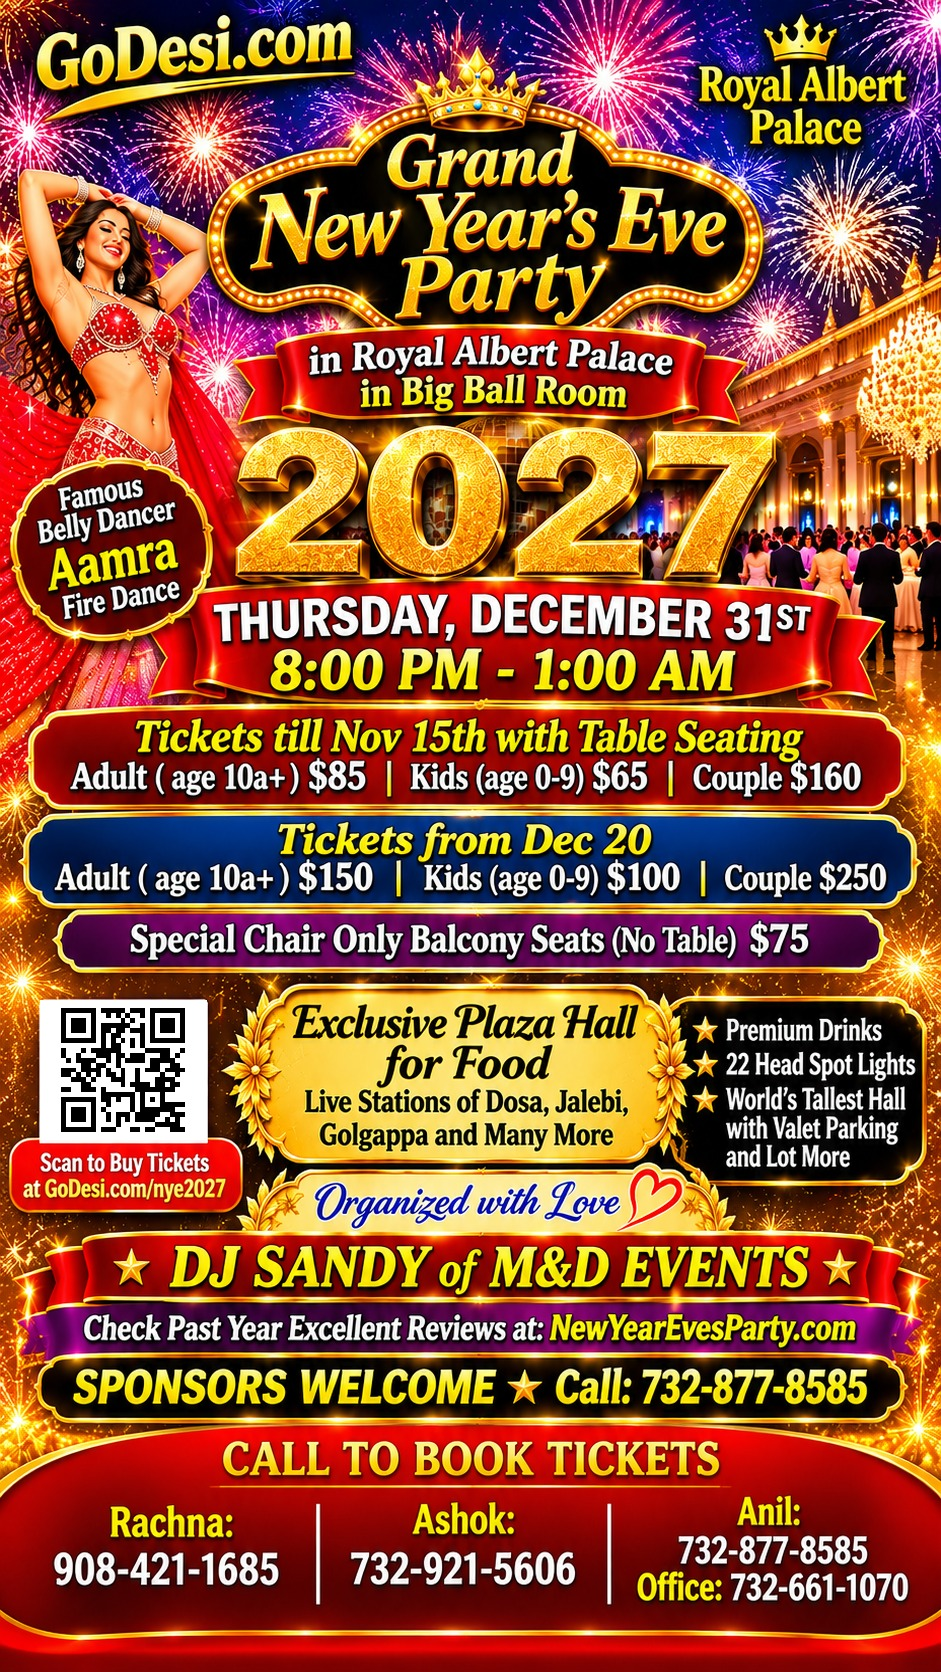
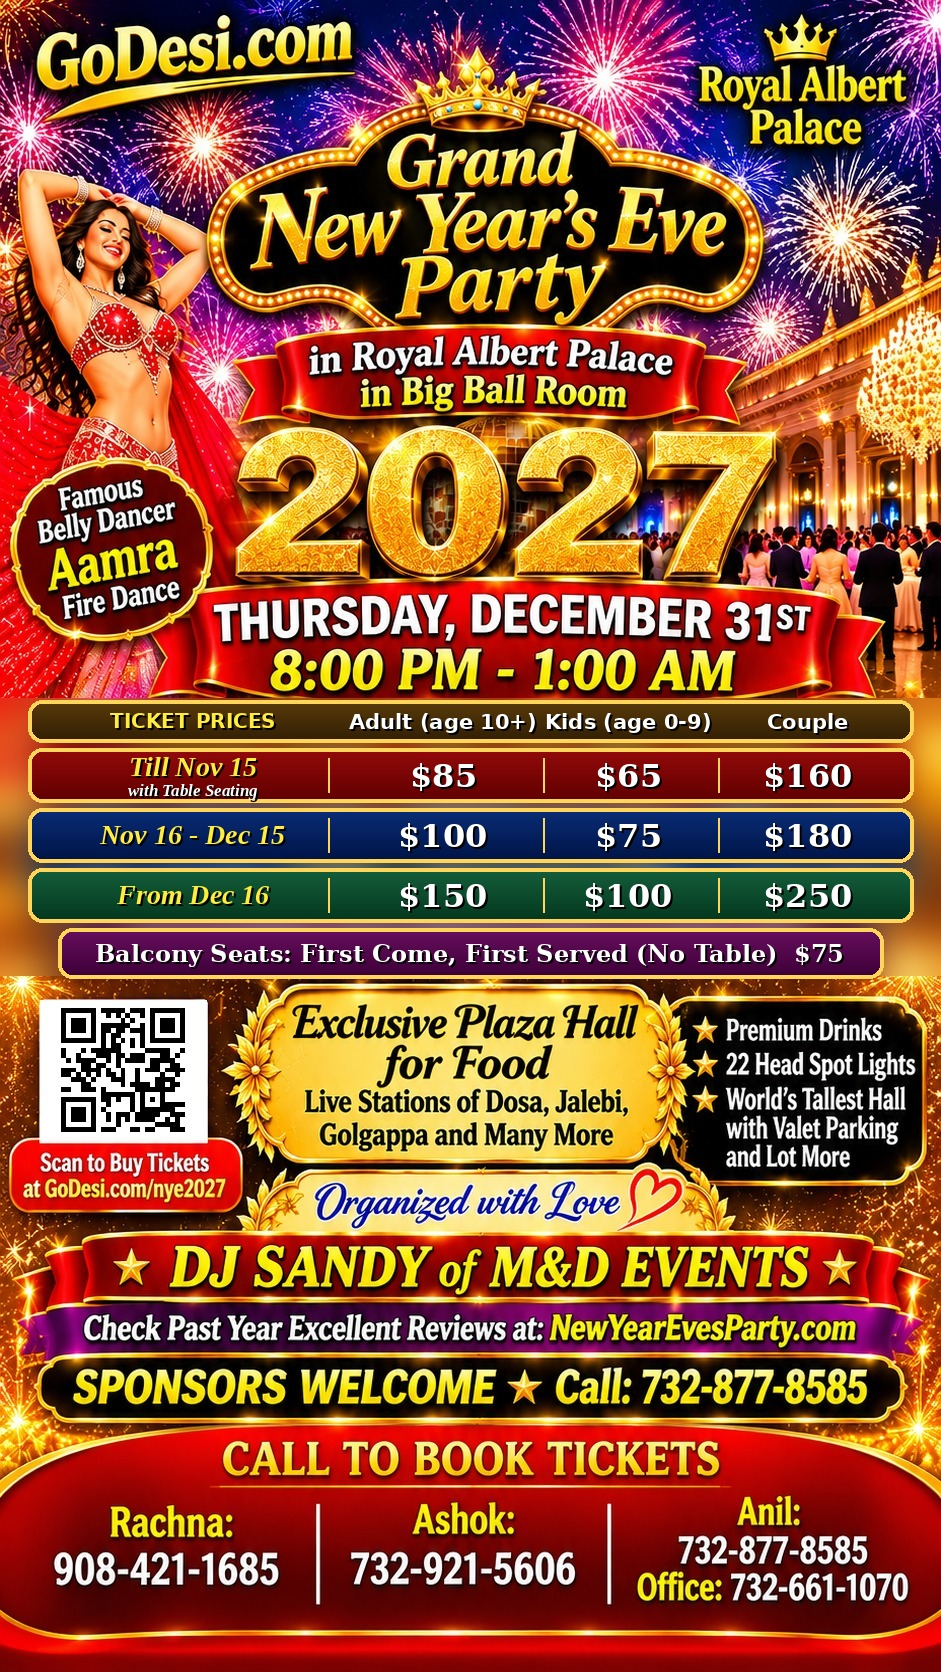
NYE 2027: Singles (no Mingle) with dated prices and godesi.com/927, advance tier for the main event, pooled seat caps, move both events to NewYearEvesParty.com and post news

Changed region(s): [[0.0, 0.4043, 1.0, 0.5909]]

diff --git a/scripts/create-nye-2027-singles.ts b/scripts/create-nye-2027-singles.ts
@@ -1,9 +1,11 @@
 /**
- * Creates (or refreshes) the "Singles Mingle" listing for NYE 2027: the same night and
- * hall as the main party, but its own page and its own 50 chair-only balcony seats, sold
- * only to members 21+ with a Connect profile marked Single (see lib/singles). The main event
- * keeps its separate 50 balcony seats, so the balcony holds 100 in total.
- * Safe to re-run: the event is matched by slug and its single tier by name.
+ * Creates (or refreshes) the "Singles" listing for NYE 2027: the same night and hall as
+ * the main party, but its own page and its own 50 first-come-first-served balcony seats
+ * (no tables), sold only to members 21+ with a Connect profile marked Single (see
+ * lib/singles). The price rises by date; the event's seatsTotal of 50 caps the three
+ * price windows together (lib/events pooledSeatsLeft). The main event keeps its separate
+ * 50 balcony seats, so the balcony holds 100 in total.
+ * Safe to re-run: the event is matched by slug (old slugs are renamed) and tiers by name.
  *
  *   DATABASE_URL=... npx tsx scripts/create-nye-2027-singles.ts
  */
@@ -11,22 +13,34 @@ import { db } from "@/lib/db";
 import { SINGLES_ONLY_TAG } from "@/lib/singles";
 
 const MAIN_SLUG = "new-year-eves-party-2027-edison";
-const SLUG = "singles-mingle-new-years-eve-party-2027-nj";
-const FLYER = "https://godesi.com/flyers/nye-2027-singles-mingle.jpg";
-const TIER = { name: "Singles balcony seat", note: "21+ · Chair only, no table · singles band included", price: 75, seats: 50 };
+const SLUG = "singles-new-years-eve-party-2027-nj";
+const OLD_SLUGS = ["singles-mingle-new-years-eve-party-2027-nj"];
+const FLYER = "https://godesi.com/flyers/nye-2027-singles.jpg";
+const SEATS = 50;
+const NOTE = "21+ · First come, first served · no table · singles band included";
 
-const TITLE = "Singles Mingle New Year's Eve Party 2027 in NJ (21+)";
+/** Windows are in New York time; salesEnd is exclusive. */
+const NOV_16 = new Date("2026-11-16T00:00:00-05:00");
+const DEC_16 = new Date("2026-12-16T00:00:00-05:00");
+
+const TIERS: { name: string; match?: string[]; price: number; salesStart?: Date; salesEnd?: Date }[] = [
+  { name: "Singles balcony seat — Early bird", match: ["Singles balcony seat"], price: 75, salesEnd: NOV_16 },
+  { name: "Singles balcony seat — Advance", price: 85, salesStart: NOV_16, salesEnd: DEC_16 },
+  { name: "Singles balcony seat", price: 100, salesStart: DEC_16 },
+];
+
+const TITLE = "Singles New Year's Eve Party 2027 in NJ (21+)";
 
 const DESCRIPTION = [
-  "Single? Don't spend New Year's Eve alone! GoDesi Singles Mingle is a singles-only New Year's Eve party inside the Grand New Year's Eve Party 2027 at Royal Albert Palace, Fords NJ (near Edison) — Thursday, December 31st, 8:00 PM to 1:00 AM.",
-  "Singles get their own chair-only balcony in the Big Ball Room: no tables, more of a club feel, so it's easy to move around, meet new people and make friends. Every singles guest gets a special singles band, so you know who else is there to mingle.",
-  "You get everything the main party has: delicious food from live stations (dosa, jalebi, golgappa and more), premium drinks and liquor, DJ Sandy on the dance floor and belly dancer Aamra's fire dance. The only thing you don't get is a table.",
+  "Single? Don't spend New Year's Eve alone! GoDesi Singles is a singles-only New Year's Eve party inside the Grand New Year's Eve Party 2027 at Royal Albert Palace, Fords NJ (near Edison) — Thursday, December 31st, 8:00 PM to 1:00 AM.",
+  "Singles get their own balcony in the Big Ball Room: seats only, no tables and no assigned seats — first come, first served. Every singles guest gets a special singles band.",
+  "You get everything the main party has: delicious food from live stations (dosa, jalebi, golgappa and more), premium drinks and liquor, DJ Sandy on the dance floor and belly dancer Aamra's fire dance. Meet new people, make friends and welcome 2027 together.",
   "This is a 21+ party because liquor is served: bring a photo ID, which is checked at the door when you pick up your singles band.",
-  "Tickets are $75 and only 50 singles seats are available. To keep it singles-only, you need a free GoDesi Connect profile marked Single, with your age (21 or older), before you buy — create it in a minute and come straight back to book.",
+  "Tickets: $75 till Nov 15 · $85 from Nov 16 to Dec 15 · $100 from Dec 16. Only 50 singles seats. To keep it singles-only, you need a free GoDesi Connect profile marked Single, with your age (21 or older), before you buy — create it in a minute and come straight back to book. Short link: godesi.com/927",
   "Questions or group bookings: Rachna 908-421-1685 · Anil 732-877-8585 · Ashok 732-921-5606 · Office 732-661-1070.",
 ].join("\n\n");
 
-const TAGS = [SINGLES_ONLY_TAG, "singles", "singles-party", "singles-mingle", "desi-singles", "21-plus", "new-years-eve", "nye-2027", "new-jersey"];
+const TAGS = [SINGLES_ONLY_TAG, "singles", "singles-party", "singles-new-years-eve", "desi-singles", "21-plus", "new-years-eve", "nye-2027", "new-jersey"];
 
 async function main() {
   const main = await db.event.findUnique({ where: { slug: MAIN_SLUG } });
@@ -64,28 +78,44 @@ async function main() {
     tags: TAGS,
     featured: true,
     status: "APPROVED" as const,
-    price: TIER.price,
+    slug: SLUG,
+    price: Math.min(...TIERS.map((tier) => tier.price)),
   };
 
-  const existing = await db.event.findUnique({ where: { slug: SLUG }, include: { tiers: true } });
+  const existing = await db.event.findFirst({
+    where: { slug: { in: [SLUG, ...OLD_SLUGS] } },
+    include: { tiers: true },
+  });
   const event = existing
     ? await db.event.update({ where: { id: existing.id }, data })
-    : await db.event.create({ data: { ...data, slug: SLUG, seatsTotal: TIER.seats } });
+    : await db.event.create({ data: { ...data, seatsTotal: SEATS } });
 
-  const tier = existing?.tiers.find((row) => row.name === TIER.name);
-  const tierData = {
-    name: TIER.name,
-    note: TIER.note,
-    price: TIER.price,
-    seatsTotal: Math.max(TIER.seats, tier?.seatsBooked ?? 0),
-    sortOrder: 0,
-    kind: "TICKET",
-    admits: 1,
-  };
-  if (tier) await db.ticketTier.update({ where: { id: tier.id }, data: tierData });
-  else await db.ticketTier.create({ data: { ...tierData, eventId: event.id } });
+  const used = new Set<string>();
+  for (let index = 0; index < TIERS.length; index += 1) {
+    const spec = TIERS[index];
+    const names = [spec.name, ...(spec.match ?? [])];
+    const tier = existing?.tiers.find((row) => !used.has(row.id) && names.includes(row.name));
+    const tierData = {
+      name: spec.name,
+      note: NOTE,
+      price: spec.price,
+      seatsTotal: Math.max(SEATS, tier?.seatsBooked ?? 0),
+      sortOrder: index,
+      salesStart: spec.salesStart ?? null,
+      salesEnd: spec.salesEnd ?? null,
+      kind: "TICKET",
+      admits: 1,
+    };
+    if (tier) {
+      used.add(tier.id);
+      await db.ticketTier.update({ where: { id: tier.id }, data: tierData });
+    } else await db.ticketTier.create({ data: { ...tierData, eventId: event.id } });
+  }
 
-  await db.event.update({ where: { id: event.id }, data: { seatsTotal: tierData.seatsTotal } });
+  /** One pool of 50 across the three price windows (below the tiers' 150, see pooledSeatsLeft). */
+  const booked = await db.ticketTier.aggregate({ where: { eventId: event.id, kind: "TICKET" }, _sum: { seatsBooked: true } });
+  const seatsBooked = booked._sum.seatsBooked ?? 0;
+  await db.event.update({ where: { id: event.id }, data: { seatsTotal: Math.max(SEATS, seatsBooked), seatsBooked } });
   console.log(`${existing ? "Updated" : "Created"} ${SLUG} (${event.id})`);
 }
 

diff --git a/scripts/update-nye-2027-edison.ts b/scripts/update-nye-2027-edison.ts
@@ -1,7 +1,7 @@
 /**
  * Brings the NYE 2027 Edison listing in line with the organiser's flyer: 8 PM start,
- * flyer image, early (till Nov 15) / late (from Dec 20) ticket prices plus balcony
- * seats, and guest reviews typed out from the WhatsApp review album (first names only).
+ * flyer image, early (till Nov 15) / advance (Nov 16–Dec 15) / late (from Dec 16) ticket
+ * prices plus first-come-first-served balcony seats, and guest reviews typed out from the WhatsApp review album (first names only).
  * Safe to re-run: tiers are matched by name, reviews are replaced.
  *
  *   DATABASE_URL=... npx tsx scripts/update-nye-2027-edison.ts
@@ -14,19 +14,20 @@ const REVIEWS_ALBUM = "https://photos.app.goo.gl/nQrusW5e5pojmj7P7";
 
 /** Windows are in New York time; salesEnd is exclusive, so early tickets sell through Nov 15. */
 const EARLY_END = new Date("2026-11-16T00:00:00-05:00");
-const LATE_START = new Date("2026-12-20T00:00:00-05:00");
+const LATE_START = new Date("2026-12-16T00:00:00-05:00");
 
 const DESCRIPTION = [
   "Grand New Year's Eve Party 2027 in the Big Ball Room at Royal Albert Palace — Thursday, December 31st, 8:00 PM to 1:00 AM. Hosted by NewYearEvesParty.com, celebrating since 2018.",
   "DJ Sandy of M&D Events keeps the dance floor packed all night, and famous belly dancer Aamra performs her fire dance. The Big Ball Room is lit by 22 head spot lights.",
   "Food is served in the exclusive Plaza Hall with live stations — dosa, jalebi, golgappa and many more — plus premium drinks. Valet parking and a lot more.",
-  "Early tickets (till Nov 15th) include table seating: Adult (10+) $85, Kids (0–9) $65, Couple $160. From Dec 20th: Adult $150, Kids $100, Couple $250. Special chair-only balcony seats (no table) $75.",
+  "Tickets till Nov 15th include table seating: Adult (10+) $85, Kids (0–9) $65, Couple $160. Nov 16th to Dec 15th: Adult $100, Kids $75, Couple $180. From Dec 16th: Adult $150, Kids $100, Couple $250. Balcony seats (no table, first come, first served) $75.",
   "Sponsors welcome — call 732-877-8585.",
 ].join("\n\n");
 
 /**
  * The hall holds 400 people, so entry tiers add up to 400, counting a couple as 2:
- * early 120 + 50 + 40×2 = 250, balcony 50, late 60 + 20 + 10×2 = 100.
+ * early 120 + 50 + 40×2 = 250, balcony 50, late 60 + 20 + 10×2 = 100. The advance window
+ * (Nov 16–Dec 15) repeats the early numbers, since it sells after the early tiers close.
  * `match` lists the old names so the existing late tiers (and their bookings) are kept.
  * Sponsor packages are listed separately; the 2-pass ones add up to 18 more people.
  */
@@ -46,11 +47,21 @@ type TierSpec = {
 
 const BANNER_YEAR = "320×100 banner on GoDesi.com for 1 year";
 
+/**
+ * Tickets the hall can sell across every window. Early and advance tiers sell the same
+ * seats at different dates, so the tiers add up to more than this; the event total
+ * caps them together (lib/events pooledSeatsLeft).
+ */
+const HALL_TICKETS = 350;
+
 const TIERS: TierSpec[] = [
   { name: "Adult (10+) — Early bird", note: "Table seating included", price: 85, seats: 120, salesEnd: EARLY_END },
   { name: "Kids (0–9) — Early bird", note: "Table seating included", price: 65, seats: 50, salesEnd: EARLY_END },
   { name: "Couple — Early bird", note: "Table seating included", price: 160, seats: 40, salesEnd: EARLY_END, admits: 2 },
-  { name: "Special balcony seat", note: "Chair only, no table", price: 75, seats: 50 },
+  { name: "Adult (10+) — Advance", price: 100, seats: 120, salesStart: EARLY_END, salesEnd: LATE_START },
+  { name: "Kids (0–9) — Advance", price: 75, seats: 50, salesStart: EARLY_END, salesEnd: LATE_START },
+  { name: "Couple — Advance", price: 180, seats: 40, salesStart: EARLY_END, salesEnd: LATE_START, admits: 2 },
+  { name: "Balcony seat — first come, first served", match: ["Special balcony seat"], note: "Seat only, no table · first come, first served", price: 75, seats: 50 },
   { name: "Adult (10+)", match: ["General"], price: 150, seats: 60, salesStart: LATE_START },
   { name: "Kids (0–9)", match: ["Teen"], price: 100, seats: 20, salesStart: LATE_START },
   { name: "Couple", match: ["Couple"], price: 250, seats: 10, salesStart: LATE_START, admits: 2 },
@@ -89,10 +100,12 @@ async function main() {
   const event = await db.event.findUnique({ where: { slug: SLUG }, include: { tiers: true } });
   if (!event) throw new Error(`No event ${SLUG}`);
 
+  const used = new Set<string>();
   for (let index = 0; index < TIERS.length; index += 1) {
     const spec = TIERS[index];
     const names = [spec.name, ...(spec.match ?? [])];
-    const existing = event.tiers.find((tier) => names.includes(tier.name));
+    const existing = event.tiers.find((tier) => !used.has(tier.id) && names.includes(tier.name));
+    if (existing) used.add(existing.id);
     const data = {
       name: spec.name,
       note: spec.note ?? null,
@@ -121,7 +134,7 @@ async function main() {
       description: DESCRIPTION,
       reviewsAlbumUrl: REVIEWS_ALBUM,
       price: Math.min(...tiers.map((tier) => tier.price)),
-      seatsTotal: tiers.reduce((sum, tier) => sum + tier.seatsTotal, 0),
+      seatsTotal: Math.max(HALL_TICKETS, tiers.reduce((sum, tier) => sum + tier.seatsBooked, 0)),
     },
   });
 

diff --git a/scripts/nye-2027-to-newyearevesparty.ts b/scripts/nye-2027-to-newyearevesparty.ts
@@ -1,0 +1,72 @@
+/**
+ * Moves the NYE 2027 main and Singles events under the NewYearEvesParty.com member
+ * (user + business profile) and posts their announcement on GoDesi News from that member.
+ * Safe to re-run: the news item is keyed by a fixed guid.
+ *
+ *   DATABASE_URL=... npx tsx scripts/nye-2027-to-newyearevesparty.ts
+ */
+import { db } from "@/lib/db";
+import { newsPath } from "@/lib/newsLinks";
+
+const MEMBER_EMAIL = "newyearevespartycom@gmail.com";
+const EVENT_SLUGS = ["new-year-eves-party-2027-edison", "singles-new-years-eve-party-2027-nj"];
+const GUID = "report:newyearevesparty-nye-2027";
+const MAIN_FLYER = "https://godesi.com/flyers/nye-2027-royal-albert-palace.jpg";
+const SINGLES_FLYER = "https://godesi.com/flyers/nye-2027-singles.jpg";
+
+const TITLE = "Grand New Year's Eve Party 2027 at Royal Albert Palace, Fords NJ — tickets on sale";
+
+const SUMMARY = [
+  "NewYearEvesParty.com is hosting the Grand New Year's Eve Party 2027 on Thursday, December 31st, 8:00 PM to 1:00 AM, in the Big Ball Room at Royal Albert Palace, 1050 King Georges Post Rd, Fords NJ 08863 (near Edison).",
+  "It's a family party with live food stations (dosa, jalebi, golgappa and more), premium drinks, DJ Sandy on the dance floor and belly dancer Aamra's fire dance.",
+  "Tickets till Nov 15 (with table seating): Adult (10+) $85, Kids (0–9) $65, Couple $160. Nov 16 to Dec 15: Adult $100, Kids $75, Couple $180. From Dec 16: Adult $150, Kids $100, Couple $250. Balcony seats (no table, first come, first served) are $75. Book at godesi.com/nye2027.",
+  "Singles 21+ get their own first-come-first-served balcony (seats only, no table) with food, drinks and dancing included: $75 till Nov 15, $85 from Nov 16 to Dec 15 and $100 from Dec 16. Photo ID is checked at the door. Book at godesi.com/927.",
+  "To book by phone: Rachna 908-421-1685 · Anil 732-877-8585 · Ashok 732-921-5606 · Office 732-661-1070.",
+].join("\n\n");
+
+async function main() {
+  const user = await db.user.findUniqueOrThrow({ where: { email: MEMBER_EMAIL } });
+  const business = await db.business.findFirstOrThrow({
+    where: { ownerId: user.id },
+    orderBy: { createdAt: "asc" },
+  });
+
+  const moved = await db.event.updateMany({
+    where: { slug: { in: EVENT_SLUGS } },
+    data: { organizerId: user.id, businessId: business.id },
+  });
+  console.log(`Moved ${moved.count} events to ${business.name} (${business.slug})`);
+
+  const data = {
+    title: TITLE,
+    summary: SUMMARY,
+    source: business.name,
+    submittedById: user.id,
+    status: "PUBLISHED" as const,
+    topic: "events",
+    category: "Events & festivals",
+    city: "Fords",
+    state: "NJ",
+    country: "US",
+    sourceType: "Self",
+    sourceUrl: "https://www.newyearevesparty.com",
+    imageUrl: MAIN_FLYER,
+    photoUrls: [MAIN_FLYER, SINGLES_FLYER],
+    declaredAt: new Date(),
+  };
+  const item = await db.newsItem.upsert({
+    where: { guid: GUID },
+    update: data,
+    create: { ...data, guid: GUID, link: "" },
+  });
+  const link = newsPath(item);
+  await db.newsItem.update({ where: { id: item.id }, data: { link } });
+  console.log(`News: https://godesi.com${link}`);
+}
+
+main()
+  .catch((error) => {
+    console.error(error);
+    process.exit(1);
+  })
+  .finally(() => db.$disconnect());

diff --git a/src/app/events/[slug]/page.tsx b/src/app/events/[slug]/page.tsx
@@ -17,6 +17,7 @@ import {
   formatEventDate,
   formatEventEnd,
   isPast,
+  pooledSeatsLeft,
   seatsLeft,
 } from "@/lib/events";
 import { TicketForm } from "@/components/forms/TicketForm";
@@ -358,6 +359,9 @@ export default async function EventPage({
       : 0;
   const ticketTiers = event.tiers.filter((tier) => tier.kind !== "SPONSOR");
   const sponsorTiers = event.tiers.filter((tier) => tier.kind === "SPONSOR");
+  const poolLeft = pooledSeatsLeft(event, event.tiers);
+  const ticketSeatsLeft = (tier: (typeof ticketTiers)[number]) =>
+    Math.min(seatsLeft(tier), poolLeft ?? Infinity);
   const theme = eventTheme(
     event.title,
     event.category?.icon,
@@ -769,8 +773,8 @@ export default async function EventPage({
                             {[
                               tierWindowLabel(tier, event.timeZone),
                               tierOnSale(tier)
-                                ? seatsLeft(tier)
-                                  ? `${seatsLeft(tier)} left`
+                                ? ticketSeatsLeft(tier)
+                                  ? `${ticketSeatsLeft(tier)} left`
                                   : "Sold out"
                                 : null,
                             ]
@@ -1027,7 +1031,7 @@ export default async function EventPage({
                 <Link href="/connect" className="font-semibold underline">
                   GoDesi Connect
                 </Link>{" "}
-                profile marked Single, so everyone here is ready to mingle.
+                profile marked Single, so the balcony is just for singles.
               </p>
             ) : null}
             {past ? (
@@ -1072,7 +1076,7 @@ export default async function EventPage({
                       id: tier.id,
                       name: tier.name,
                       price: tier.price,
-                      seatsLeft: seatsLeft(tier),
+                      seatsLeft: ticketSeatsLeft(tier),
                     }))}
                   promoCodesHref={
                     sponsors.some((sponsor) => sponsor.coupon?.active)

diff --git a/src/lib/events.ts b/src/lib/events.ts
@@ -29,6 +29,21 @@ export function seatsLeft(event: { seatsTotal: number; seatsBooked: number }) {
   return Math.max(0, event.seatsTotal - event.seatsBooked);
 }
 
+/**
+ * Ticket types normally cap themselves. When an event's seatsTotal is set below the
+ * sum of its ticket types (one seat pool sold at rising prices by date), the event
+ * total caps them all together; returns the seats left in that pool, or null.
+ */
+export function pooledSeatsLeft(
+  event: { seatsTotal: number; seatsBooked: number },
+  tiers: { kind: string; seatsTotal: number }[],
+) {
+  const tierSeats = tiers
+    .filter((tier) => tier.kind !== "SPONSOR")
+    .reduce((sum, tier) => sum + tier.seatsTotal, 0);
+  return tierSeats > event.seatsTotal ? seatsLeft(event) : null;
+}
+
 export function isPast(event: { startsAt: Date }) {
   return event.startsAt.getTime() < Date.now();
 }

diff --git a/src/app/actions/events.ts b/src/app/actions/events.ts
@@ -13,6 +13,7 @@ import { type ActionState, fieldError } from "@/lib/actions";
 import { requestCurrency } from "@/lib/currency";
 import {
   confirmTicket,
+  pooledSeatsLeft,
   seatsLeft,
   ticketCode,
   uniqueEventSlug,
@@ -630,6 +631,12 @@ export async function bookTicketAction(
           error: `Only ${seatsLeft(line.tier)} ${line.tier.name} seat(s) left.`,
         };
     }
+    const poolLeft = pooledSeatsLeft(event, event.tiers);
+    const ticketQuantity = lines
+      .filter((line) => line.tier?.kind !== "SPONSOR")
+      .reduce((sum, line) => sum + line.quantity, 0);
+    if (poolLeft !== null && poolLeft < ticketQuantity)
+      return { error: `Only ${poolLeft} seat(s) left for this event.` };
 
     const priced = lines.map((line) => ({
       ...line,
